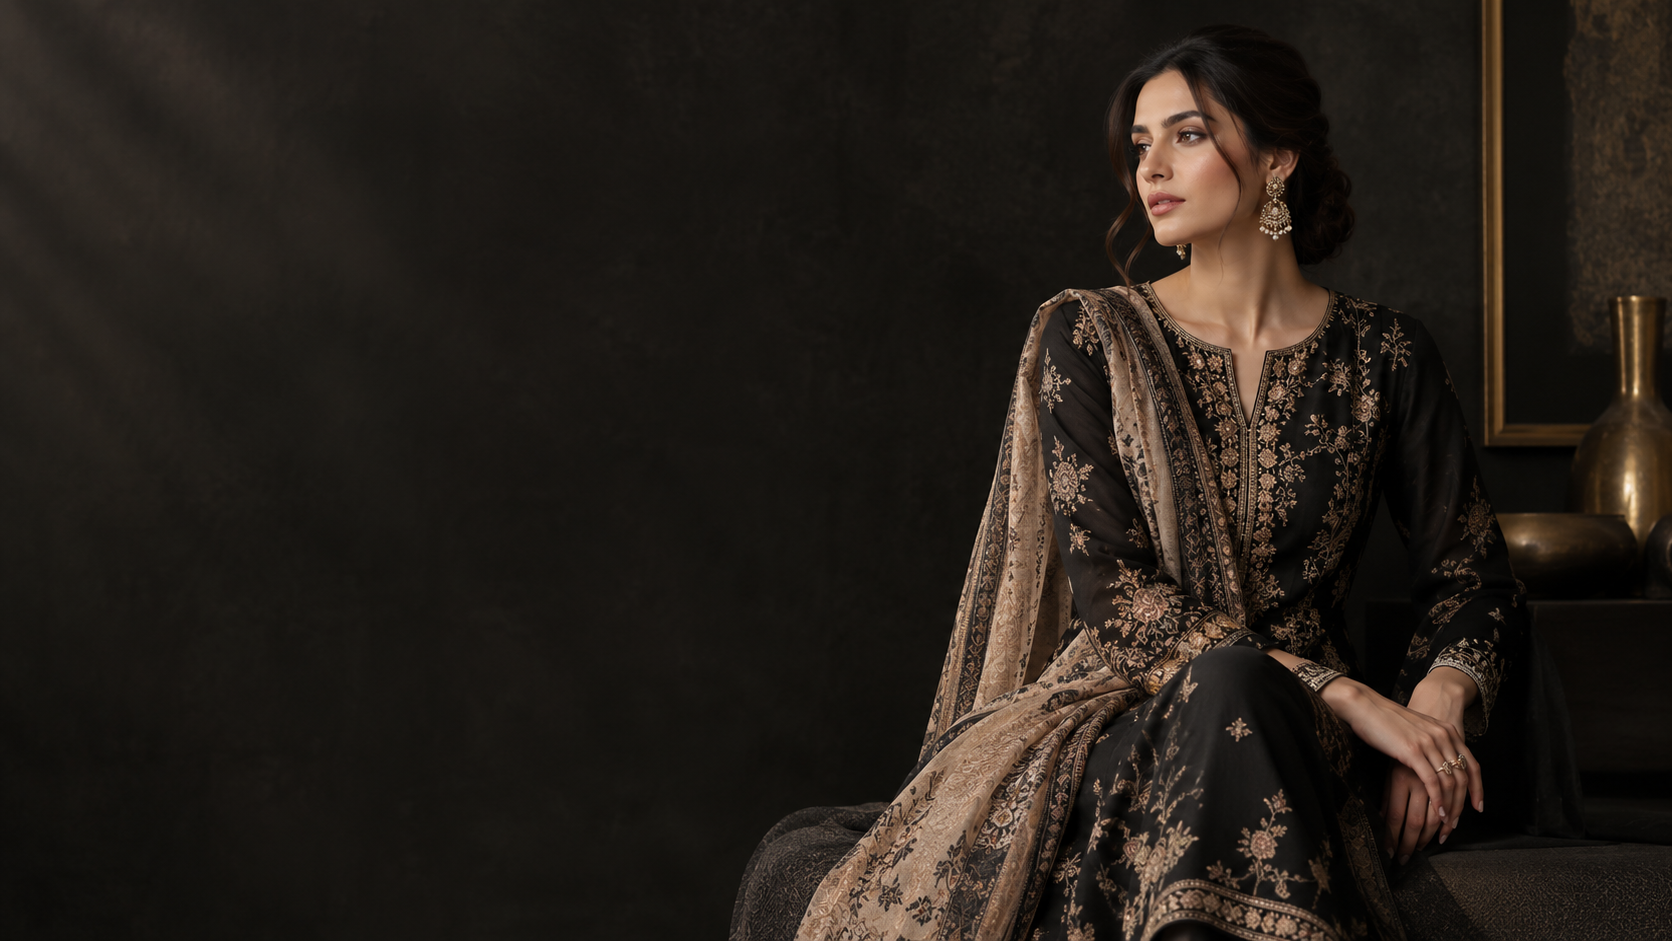
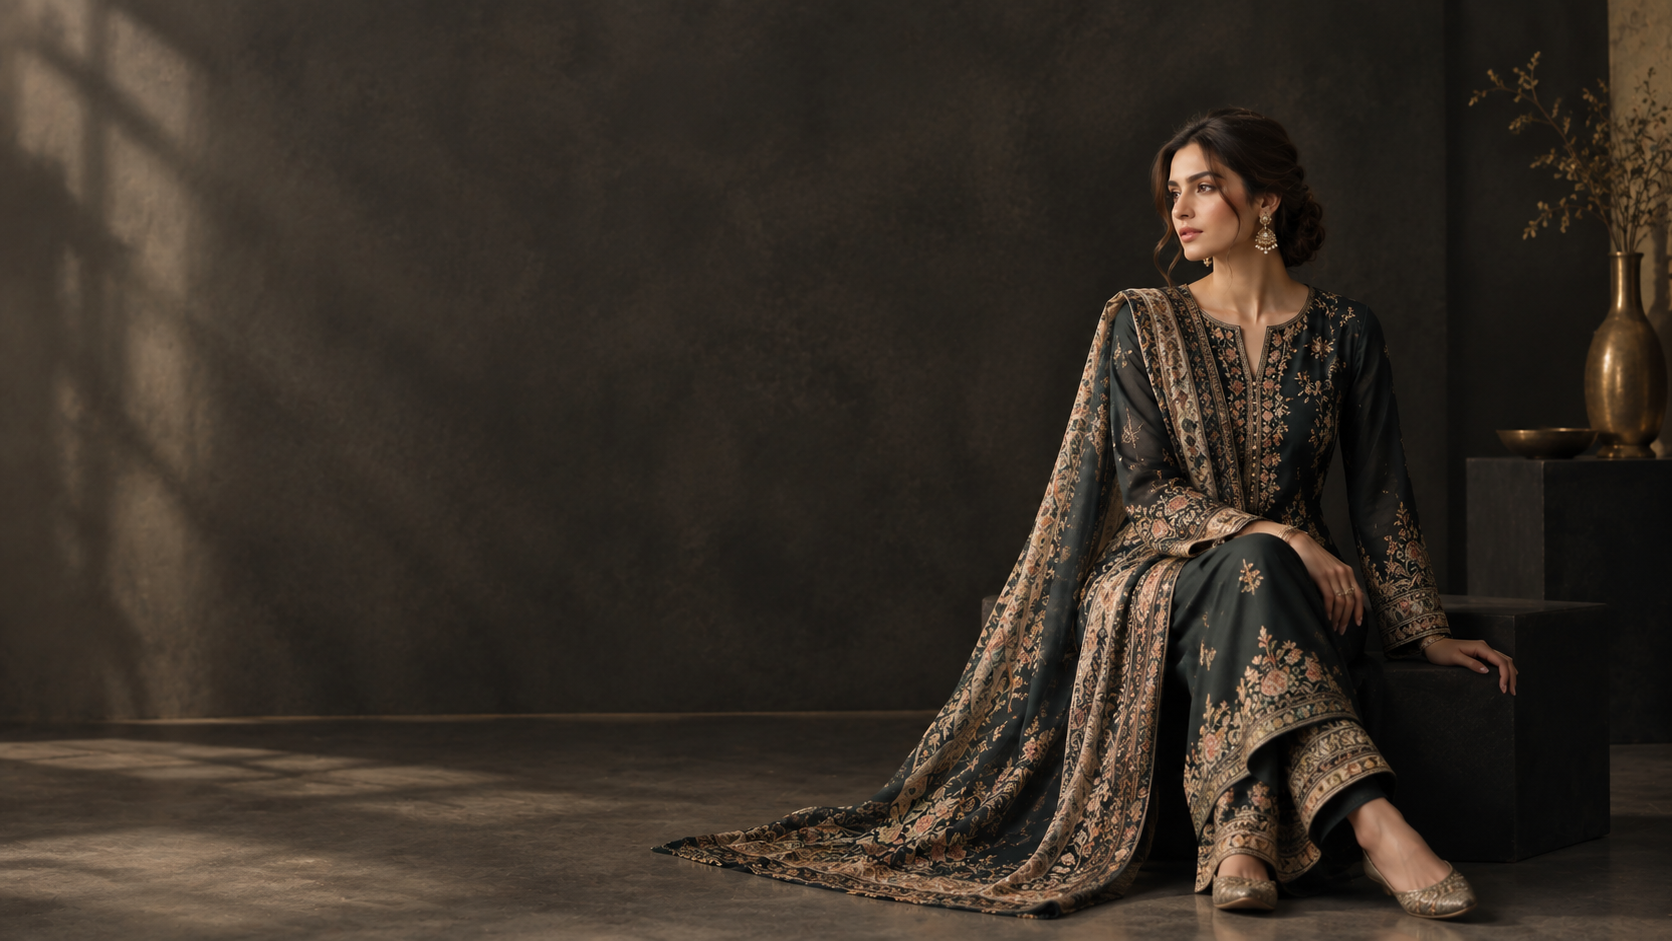
updtaed

diff --git a/client/index.html b/client/index.html
@@ -2,13 +2,39 @@
 <html lang="en">
   <head>
     <meta charset="UTF-8" />
-    <link rel="icon" type="image/svg+xml" href="/favicon-512.png" />
+    <link rel="icon" type="image/png" href="/favicon-512.png" />
     <meta name="viewport" content="width=device-width, initial-scale=1.0" />
+
     <meta
       name="google-site-verification"
       content="E1QMMiEulfpBAr7zdAFg8x5quAvSpFkoZBRxmdP_NG0"
     />
-    <title>Eshani — Premium Fashion</title>
+
+    <title>Eshani | Premium Women's Fashion in Pakistan</title>
+
+    <meta
+      name="description"
+      content="Discover elegant women's suits and premium fashion at Eshani. Explore our collection and enjoy convenient cash on delivery across Pakistan."
+    />
+
+    <meta property="og:type" content="website" />
+    <meta property="og:title" content="Eshani | Premium Women's Fashion" />
+    <meta
+      property="og:description"
+      content="Discover elegant women's suits and premium fashion at Eshani, with convenient delivery across Pakistan."
+    />
+    <meta property="og:url" content="https://eshanishop.com/" />
+    <meta
+      property="og:image"
+      content="https://eshanishop.com/favicon-512.png"
+    />
+
+    <meta name="twitter:card" content="summary_large_image" />
+    <meta name="twitter:title" content="Eshani | Premium Women's Fashion" />
+    <meta
+      name="twitter:description"
+      content="Discover elegant women's suits and premium fashion at Eshani, with convenient delivery across Pakistan."
+    />
   </head>
   <body>
     <div id="root"></div>

diff --git a/client/src/components/product/ProductCard.tsx b/client/src/components/product/ProductCard.tsx
@@ -98,10 +98,20 @@ const ProductCard = ({ product }: Props) => {
         </button>
 
         <Link to={`/product/${product.id}`}>
+          {/* <img
+            src={product.product_image}
+            alt={product.product_name}
+            className="product-card__image"
+          /> */}
+
           <img
             src={product.product_image}
             alt={product.product_name}
             className="product-card__image"
+            loading="lazy"
+            decoding="async"
+            width={400}
+            height={500}
           />
         </Link>
 

diff --git a/client/src/components/product/ProductCard.scss b/client/src/components/product/ProductCard.scss
@@ -16,19 +16,22 @@
     height: 390px;
     overflow: hidden;
     background: #f5f5f5;
+    contain: layout paint;
   }
 
   &__image {
+    display: block;
     width: 100%;
     height: 100%;
     object-fit: cover;
-    transition: transform 0.5s ease;
+    transition: transform 0.3s ease;
   }
 
-  &:hover &__image {
-    transform: scale(1.05);
+  @media (hover: hover) and (pointer: fine) {
+    &:hover &__image {
+      transform: scale(1.03);
+    }
   }
-
   // =========================
   // BADGE
   // =========================

diff --git a/client/src/pages/Home/Home.scss b/client/src/pages/Home/Home.scss
@@ -12,10 +12,10 @@
   padding: 80px 8%;
 
   background:
-    linear-gradient(90deg, rgba(0, 0, 0, 0.65), rgba(0, 0, 0, 0.1)),
+    linear-gradient(90deg, rgba(0, 0, 0, 0.65), rgba(0, 0, 0, 0.5)),
     // url("https://images.unsplash.com/photo-1483985988355-763728e1935b?auto=format&fit=crop&w=1800&q=80")
     //   center / cover;
-    url("../../assets/banner.png") center / cover;
+    url("../../assets/banner.webp") center / cover;
 
   color: #fff;
 
